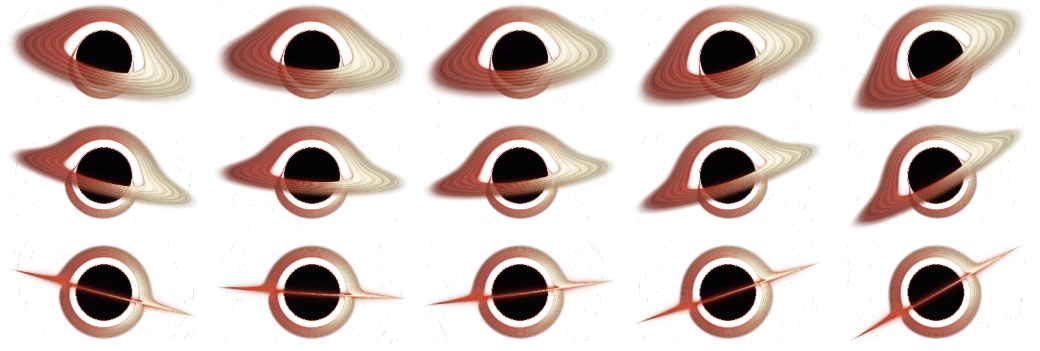
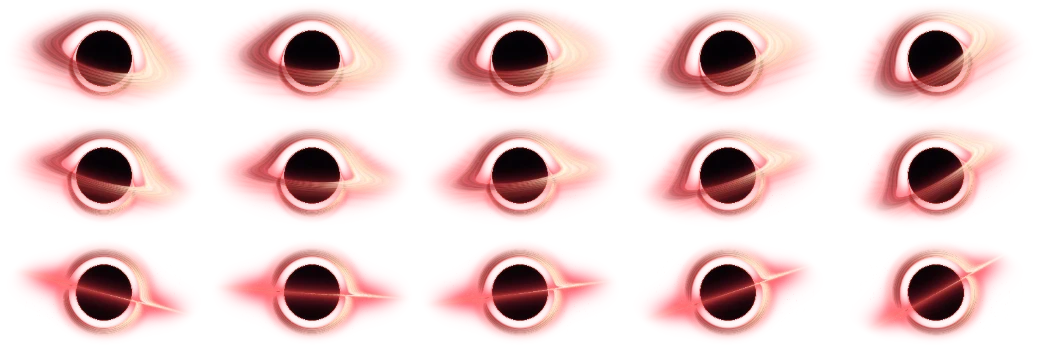
Blend Gargantua into the upper-right city skyline

diff --git a/css/cyberpunk.css b/css/cyberpunk.css
@@ -30,13 +30,14 @@
   --highlight-foreground: #f1e6eb;
   --highlight-gutter-background: #20151e;
   --highlight-gutter-foreground: #be9baa;
-  --lens-width: clamp(184px, 24vw, 396px);
-  --lens-left: clamp(5px, 1.6vw, 40px);
-  --lens-top: clamp(12px, 2.9vh, 36px);
+  --lens-width: clamp(205px, 26vw, 422px);
+  --lens-right: clamp(28px, 4.2vw, 84px);
+  --lens-top: clamp(6px, 1.75vh, 25px);
   --city-position: center 58%;
 }
 
 body {
+  --lens-height: calc(var(--lens-width) * 0.5625);
   isolation: isolate;
   font-family: system-ui, "Microsoft YaHei", "PingFang SC", sans-serif;
 }
@@ -56,28 +57,44 @@ body::before {
 }
 
 body::after,
-.gargantua-sky {
+.gargantua-scene {
   position: fixed;
   z-index: -1;
-  top: var(--lens-top);
-  left: var(--lens-left);
-  width: var(--lens-width);
-  aspect-ratio: 16 / 9;
-  image-rendering: pixelated;
+  inset: 0;
+  /* Keep the skylight behind the rooftops, in the city's own cover coordinates. */
+  -webkit-mask: url("../images/cyberpunk-sky-mask.png") var(--city-position) / cover no-repeat;
+  mask: url("../images/cyberpunk-sky-mask.png") var(--city-position) / cover no-repeat;
+  clip-path: inset(var(--lens-top) var(--lens-right)
+    calc(100% - var(--lens-top) - var(--lens-height))
+    calc(100% - var(--lens-right) - var(--lens-width)));
   pointer-events: none;
 }
 
 body::after {
-  background: url("../images/gargantua-views.webp") var(--lens-column, 50%) var(--lens-row, 50%) / 500% 300% no-repeat;
+  /* Align one of the five by three views with the same viewport aperture. */
+  background-image: url("../images/gargantua-views.webp");
+  background-size: calc(5 * var(--lens-width)) auto;
+  background-position:
+    right calc(var(--lens-right) + (var(--lens-column, 2) - 4) * var(--lens-width))
+    top calc(var(--lens-top) - var(--lens-row, 1) * var(--lens-height));
+  background-repeat: no-repeat;
   content: "";
 }
 
-.gargantua-sky,
+.gargantua-sky {
+  position: absolute;
+  top: var(--lens-top);
+  right: var(--lens-right);
+  width: var(--lens-width);
+  height: var(--lens-height);
+}
+
+.gargantua-scene,
 .gargantua-live body::after {
   visibility: hidden;
 }
 
-.gargantua-live .gargantua-sky {
+.gargantua-live .gargantua-scene {
   visibility: visible;
 }
 
@@ -250,6 +267,12 @@ body::after {
 }
 
 @media (min-width: 768px) {
+  :root {
+    /* Wide windows crop the tops of the towers into view. Follow the open sky. */
+    --lens-right: min(16vw,
+      calc(clamp(28px, 4.2vw, 84px) + max(0px, 34vw - 60.4vh)));
+  }
+
   .menu.main-menu {
     display: flex;
     flex-wrap: wrap;
@@ -278,8 +301,7 @@ body::after {
 
 @media (min-width: 1200px) {
   .sidebar-active {
-    --lens-left: calc(var(--sidebar-width, 320px) + 8px);
-    --lens-width: clamp(176px, 17vw, 310px);
+    --lens-width: clamp(195px, 19vw, 320px);
   }
 }
 
@@ -519,9 +541,9 @@ body::after {
 @media (max-width: 767px) {
   :root {
     --city-position: 64% center;
-    --lens-top: 2px;
-    --lens-left: 2px;
-    --lens-width: clamp(92px, 22vw, 142px);
+    --lens-top: 0px;
+    --lens-right: clamp(3px, 1.6vw, 14px);
+    --lens-width: clamp(100px, 25vw, 150px);
   }
 
   .header,
@@ -558,7 +580,7 @@ body::after {
 @media print {
   body::before,
   body::after,
-  .gargantua-sky {
+  .gargantua-scene {
     display: none;
   }
 }

diff --git a/js/gargantua.js b/js/gargantua.js
@@ -4,16 +4,19 @@
   const root = document.documentElement;
   const animated = matchMedia('(any-hover: hover) and (any-pointer: fine) and (prefers-reduced-motion: no-preference)');
   const shaderURL = new URL('../shaders/gargantua.frag', document.currentScript.src);
+  const scene = document.createElement('div');
+  scene.className = 'gargantua-scene';
+  scene.setAttribute('aria-hidden', 'true');
   const sky = document.createElement('canvas');
   sky.className = 'gargantua-sky';
   sky.width = 320;
   sky.height = 180;
-  sky.setAttribute('aria-hidden', 'true');
   const corona = document.createElement('span');
   corona.className = 'gargantua-corona';
   corona.setAttribute('aria-hidden', 'true');
   corona.hidden = true;
-  document.body.append(sky, corona);
+  scene.append(sky);
+  document.body.append(scene, corona);
 
   let targetX = 0;
   let targetY = 0;
@@ -33,8 +36,8 @@
     // These are actual ray-traced views. The center tile also works without JS.
     const column = Math.round((targetX + 1) * 2);
     const row = Math.round(1 - targetY);
-    sky.parentElement.style.setProperty('--lens-column', column * 25 + '%');
-    sky.parentElement.style.setProperty('--lens-row', row * 50 + '%');
+    document.body.style.setProperty('--lens-column', column);
+    document.body.style.setProperty('--lens-row', row);
   }
 
   function point(event) {
